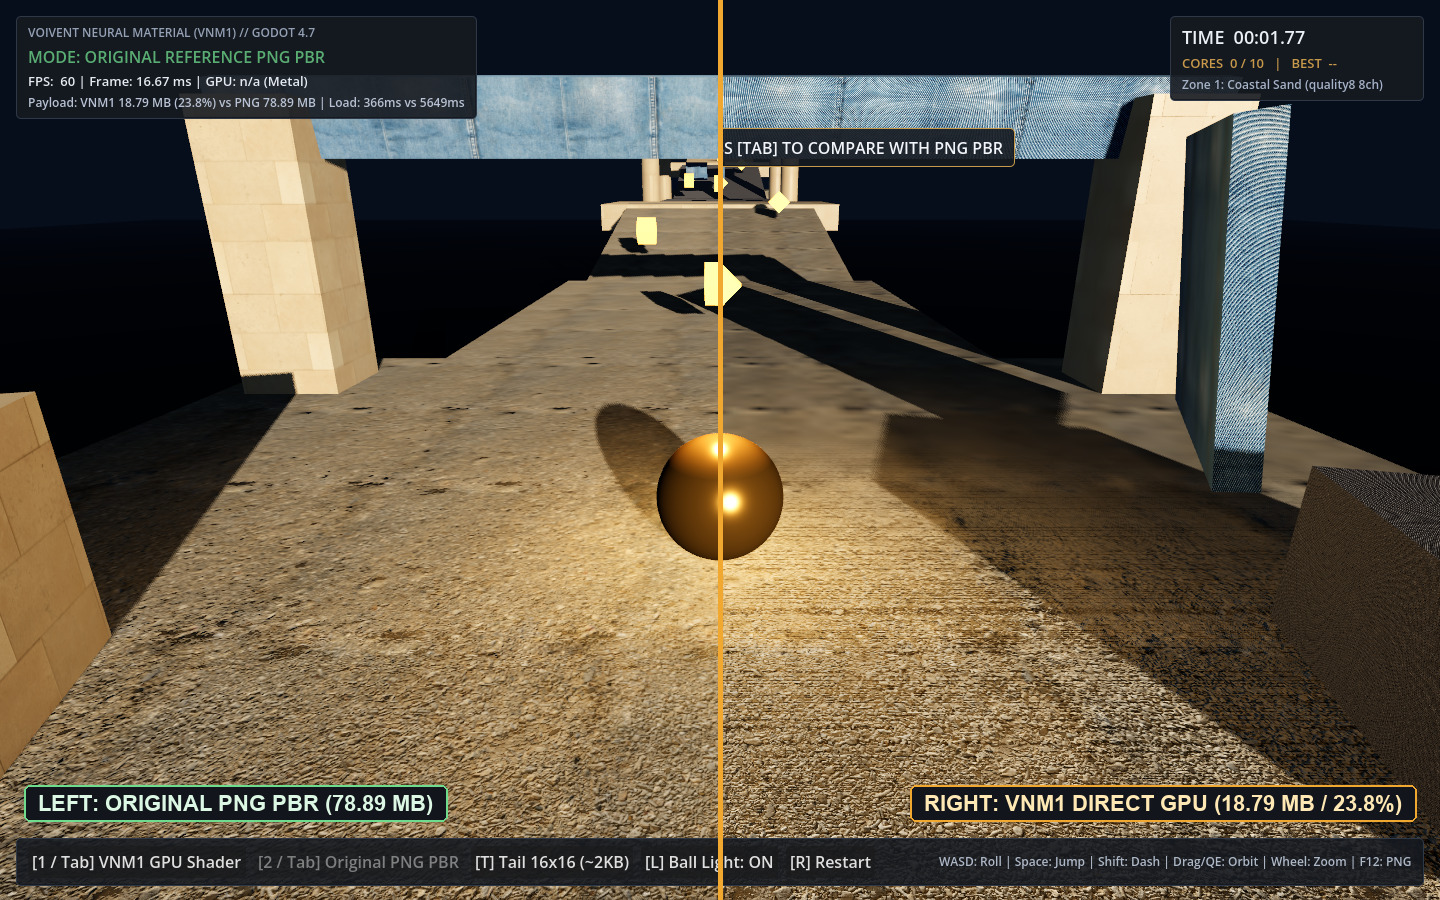
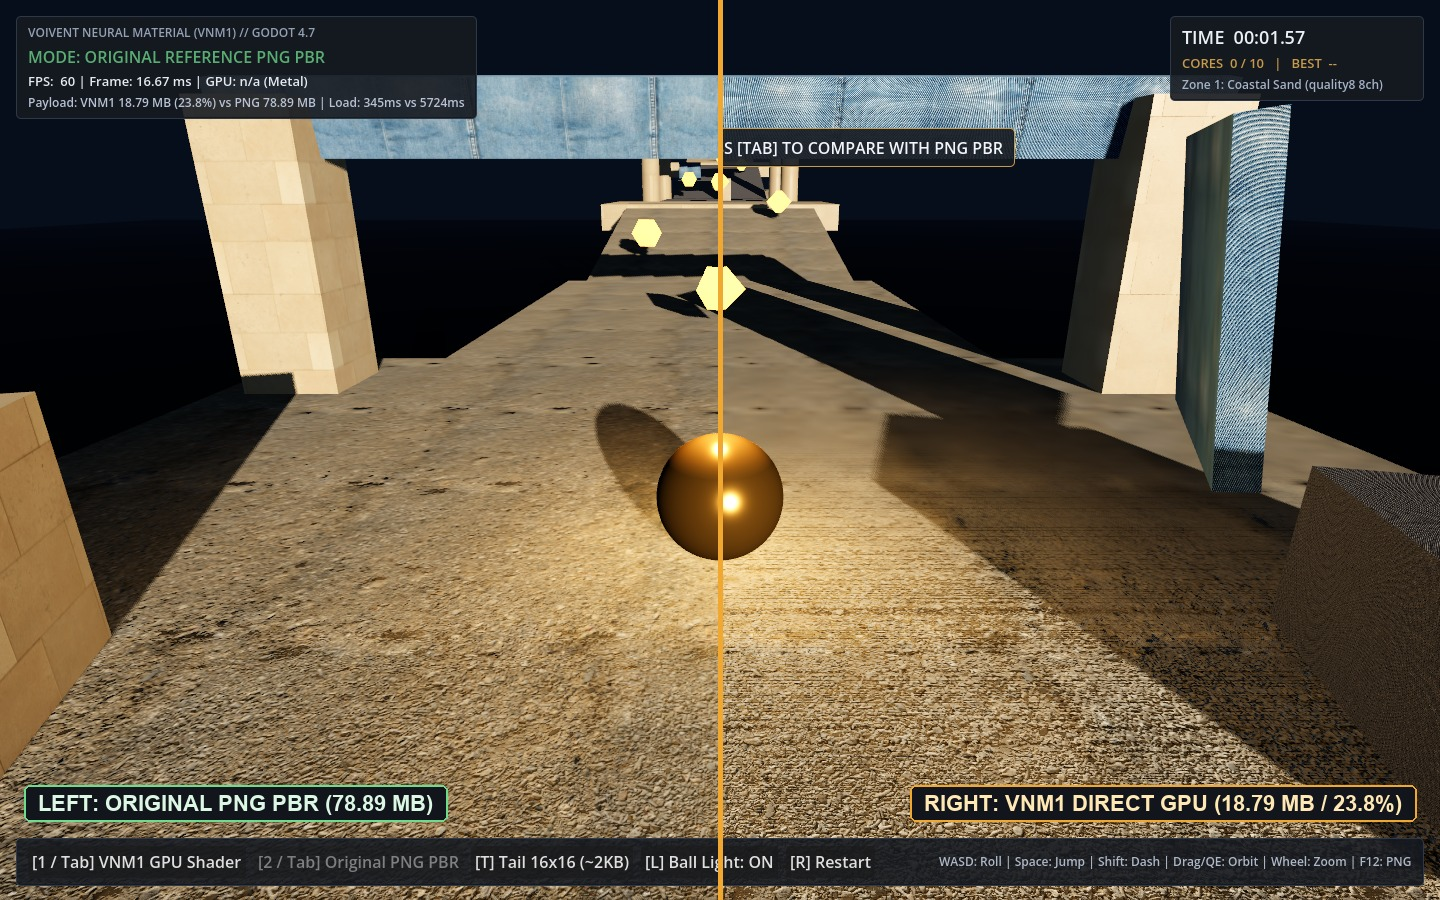
docs(preview): refresh Godot preview screenshots after O8 and Burley diffuse updates

diff --git a/README.md b/README.md
@@ -9,7 +9,7 @@ Runtime loader and GPU fragment-shader decoder addon for **Voivent Neural Materi
 *Rendered directly in Godot `4.7.2-stable` (Forward+): Left = `Marble 01` (`standard` 4ch, `1.26 MB`), Right = `Coast Sand 03` (`quality8` 8ch, `10.01 MB`). Source textures: Poly Haven (CC0-1.0).*
 
 ![Playable 3D Scene Comparison — Original Reference PNG PBR vs VNM1 Direct GPU Shader](./docs/preview-godot-comparison.jpg)
-*Playable 3D mini-game split comparison (`1440×900`, Apple M4, Godot `4.7.2-stable` Metal 4.0 Forward+): Left = Original Reference PNG PBR (`78.89 MB`, `60 FPS`), Right = VNM1 Direct GPU Shader (`18.79 MB / 23.8%`, `61 FPS`) with latent mipmap LOD + smooth tail crossfade. Materials: Poly Haven (`marble_01`, `coast_sand_03`) & ambientCG (`Fabric030`) (CC0-1.0). Note: the `5649ms` PNG startup load on the HUD reflects runtime `Image.load_from_file()` + GDScript pixel-by-pixel sRGB-to-linear LUT conversion for comparison, not editor-imported `.ctex` textures.*
+*Playable 3D mini-game split comparison (`1440×900`, Apple M4, Godot `4.7.2-stable` Metal 4.0 Forward+): Left = Original Reference PNG PBR (`78.89 MB`, `60 FPS`), Right = VNM1 Direct GPU Shader (`18.79 MB / 23.8%`, `61 FPS`) with latent mipmap LOD, smooth tail crossfade, and Burley diffuse. Materials: Poly Haven (`marble_01`, `coast_sand_03`) & ambientCG (`Fabric030`) (CC0-1.0). Note: the `5724ms` PNG startup load on the HUD reflects runtime `Image.load_from_file()` + GDScript pixel-by-pixel sRGB-to-linear LUT conversion for comparison, not editor-imported `.ctex` textures.*
 
 ## Features
 
